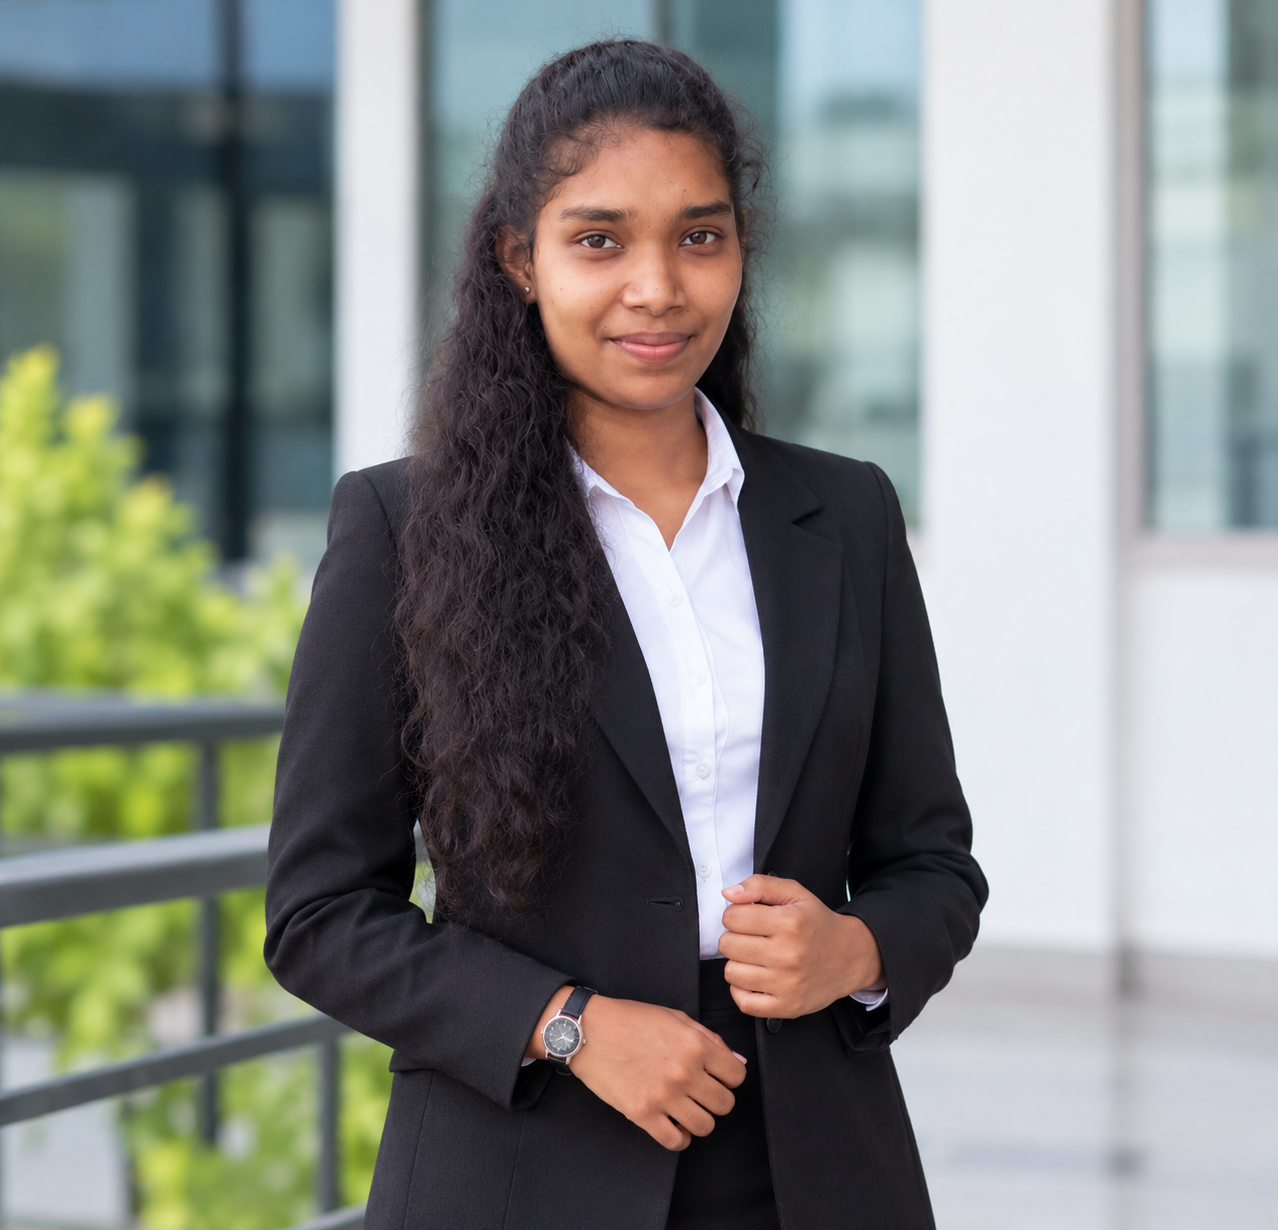
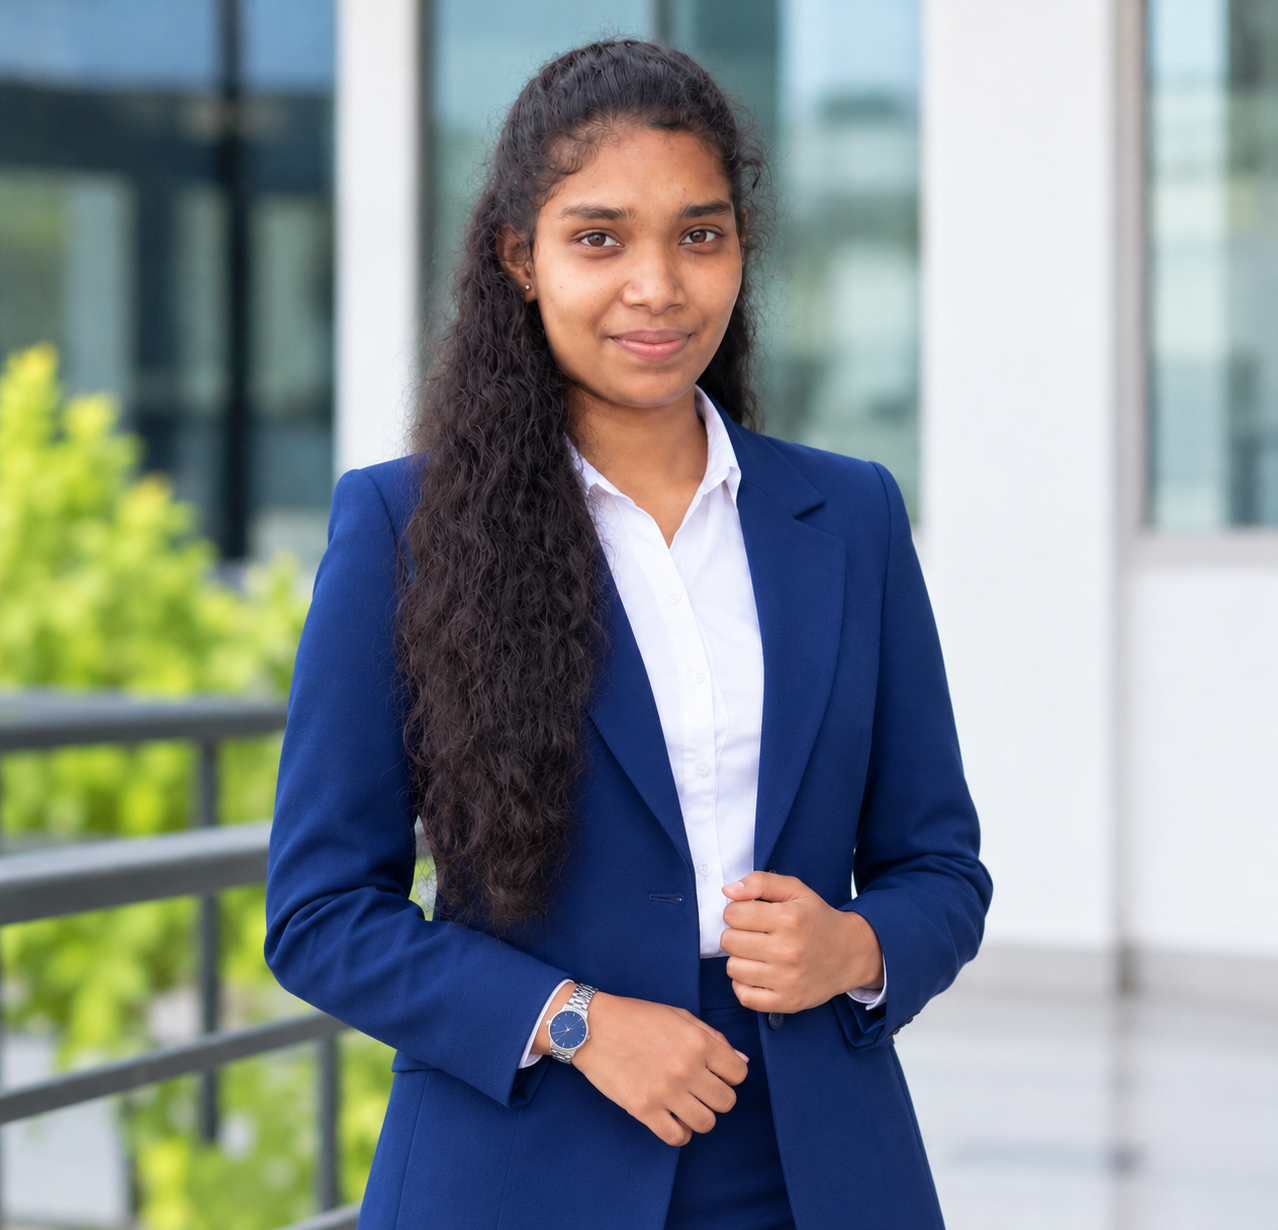
added

diff --git a/app.js b/app.js
@@ -709,7 +709,7 @@ function initHeroTypewriter() {
   if (!target) return;
 
   const words = [
-    'Software Engineer',
+    'Software Engineer Undergraduate',
     'Full-Stack Developer',
     'UI/UX Enthusiast'
   ];
